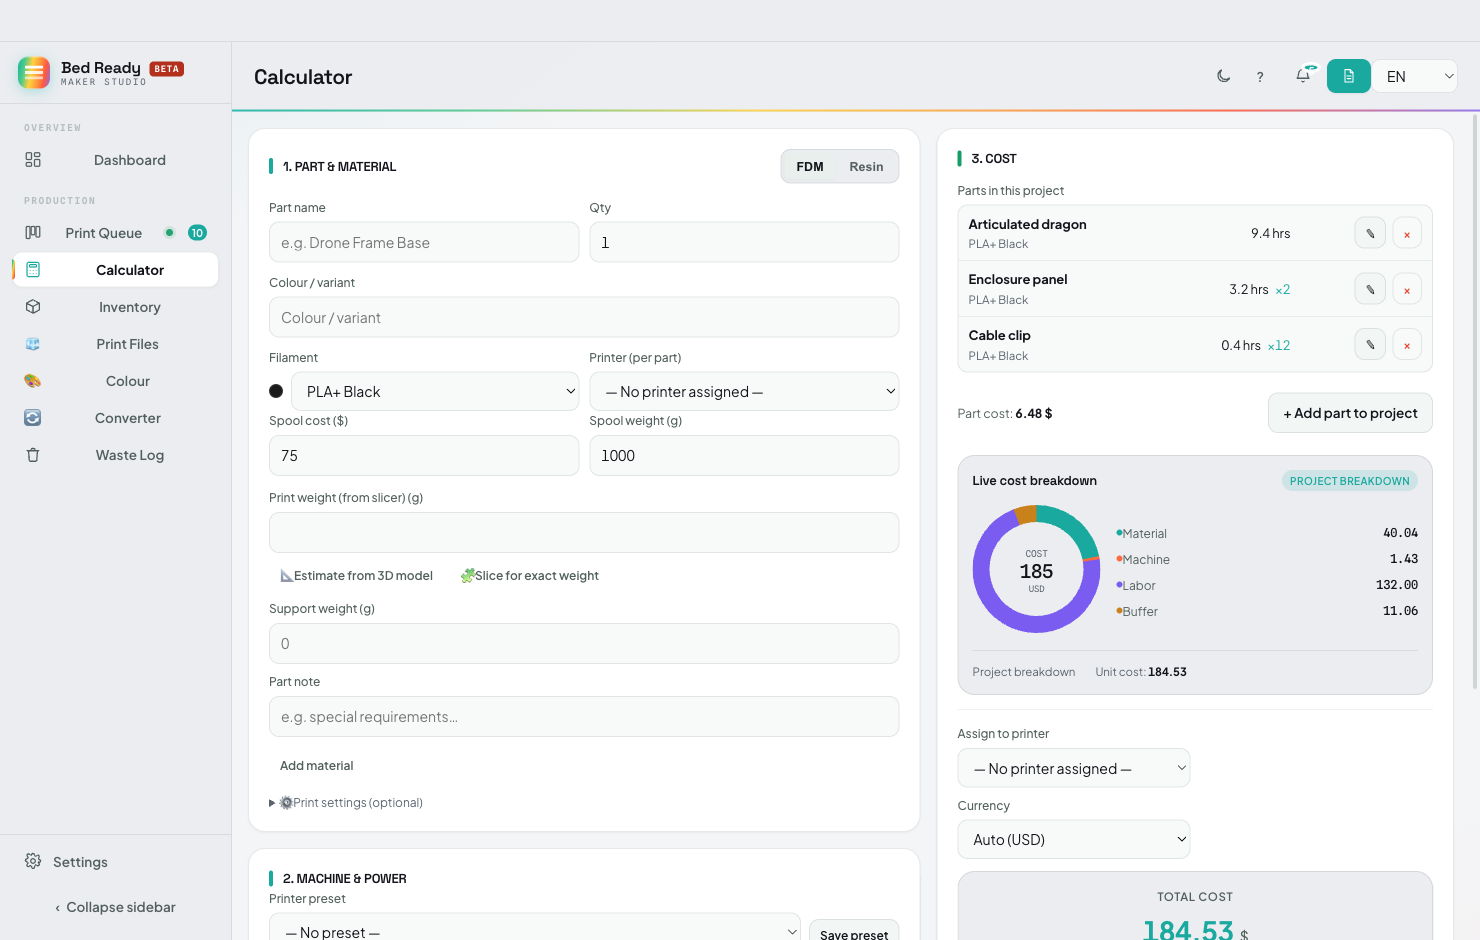
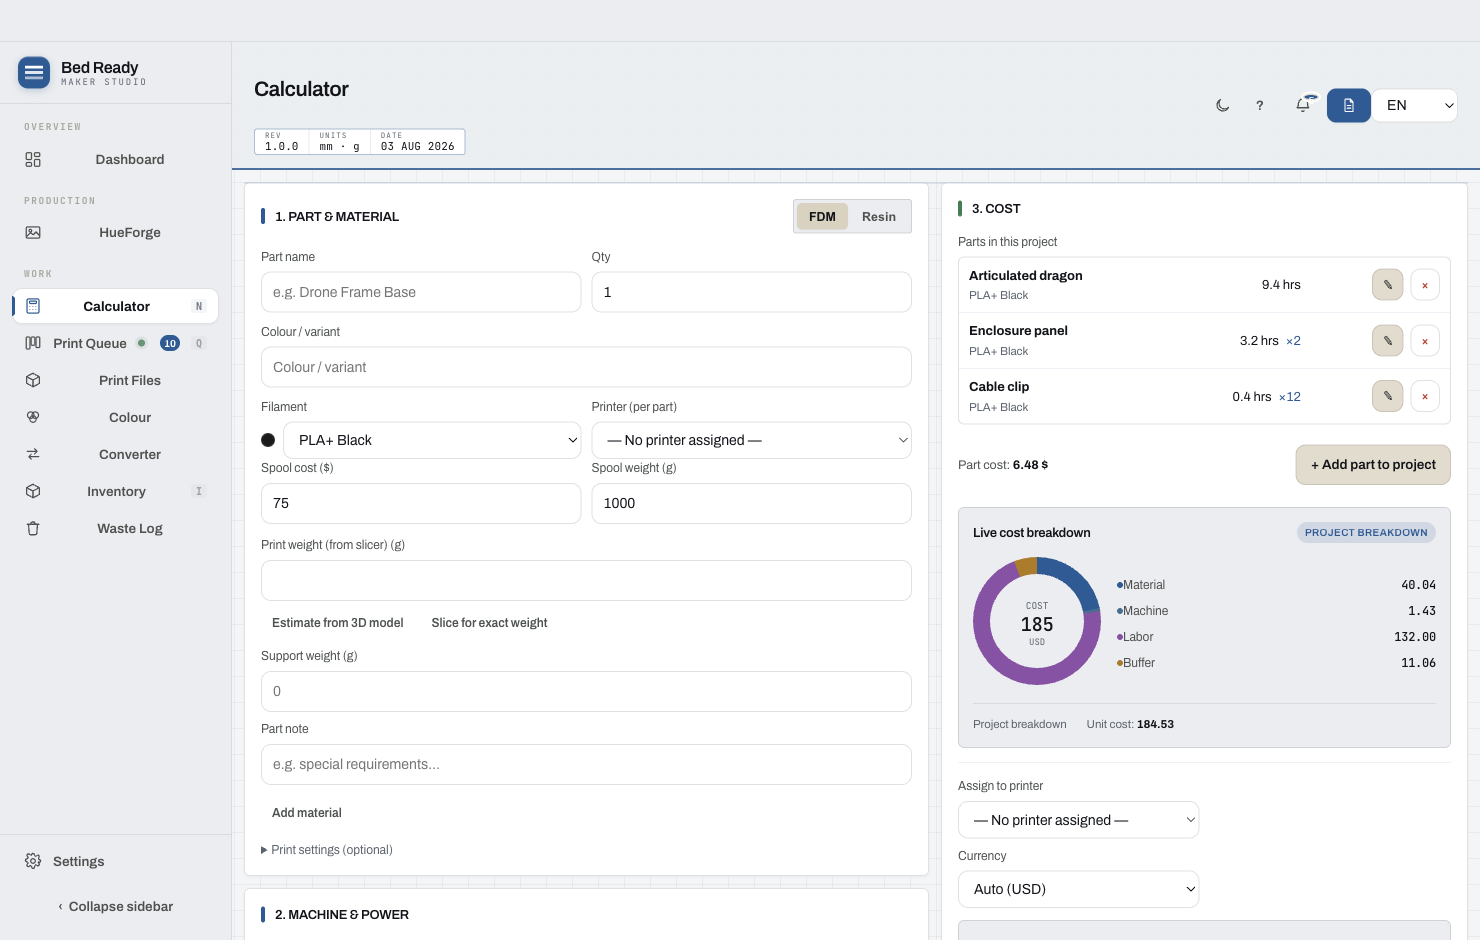
Recapture the screenshot library against 1.0.0, and stop the index calling it dark
The 12 shots committed in #607 were taken against a beta build. These are the
same 12 recaptured against 1.0.0: the title block reads REV 1.0.0, there is no
BETA badge anywhere, and 09-settings-slicers now shows "203.0h Total print hours
· 83.0h since service" instead of the negative figure #604 fixed. Demo data
only — no real customer content.

The index caption was wrong in a way that would have come straight back:

  scripts/capture-bedready-screenshots.mjs:328 hardcoded the words "dark theme"
  into the generated index.md, but THEME defaults to 'light' (line 38) and every
  shot in the library is light. Regenerating would have rewritten the same wrong
  caption over any hand-fix, so the fix is in the generator, not just the file.

It also claimed "viewport 1480×940" for all 12, which is the window size rather
than the file size — shoot() clips to an element, so the three dialog shots are
720×892, 720×892 and 720×580. The caption now says what was captured and that
dialogs are cropped, and points at BEDREADY_THEME for a dark set.

index.md is committed matching exactly what the fixed generator emits, so the
next capture run produces no spurious diff.

diff --git a/assets/bedready/index.md b/assets/bedready/index.md
@@ -1,7 +1,9 @@
 # Bed Ready screenshot library
 
-12 screenshots, viewport 1480×940, PNG, dark theme.
-Public-beta build (the BETA badge is intentional). Demo data — no real customer content.
+12 screenshots, PNG, light theme.
+Captured at 1480×940; dialog shots are cropped to the dialog, so
+they are smaller. Set `BEDREADY_THEME=dark` to recapture in dark.
+Demo data — no real customer content.
 
 ## Contents
 
